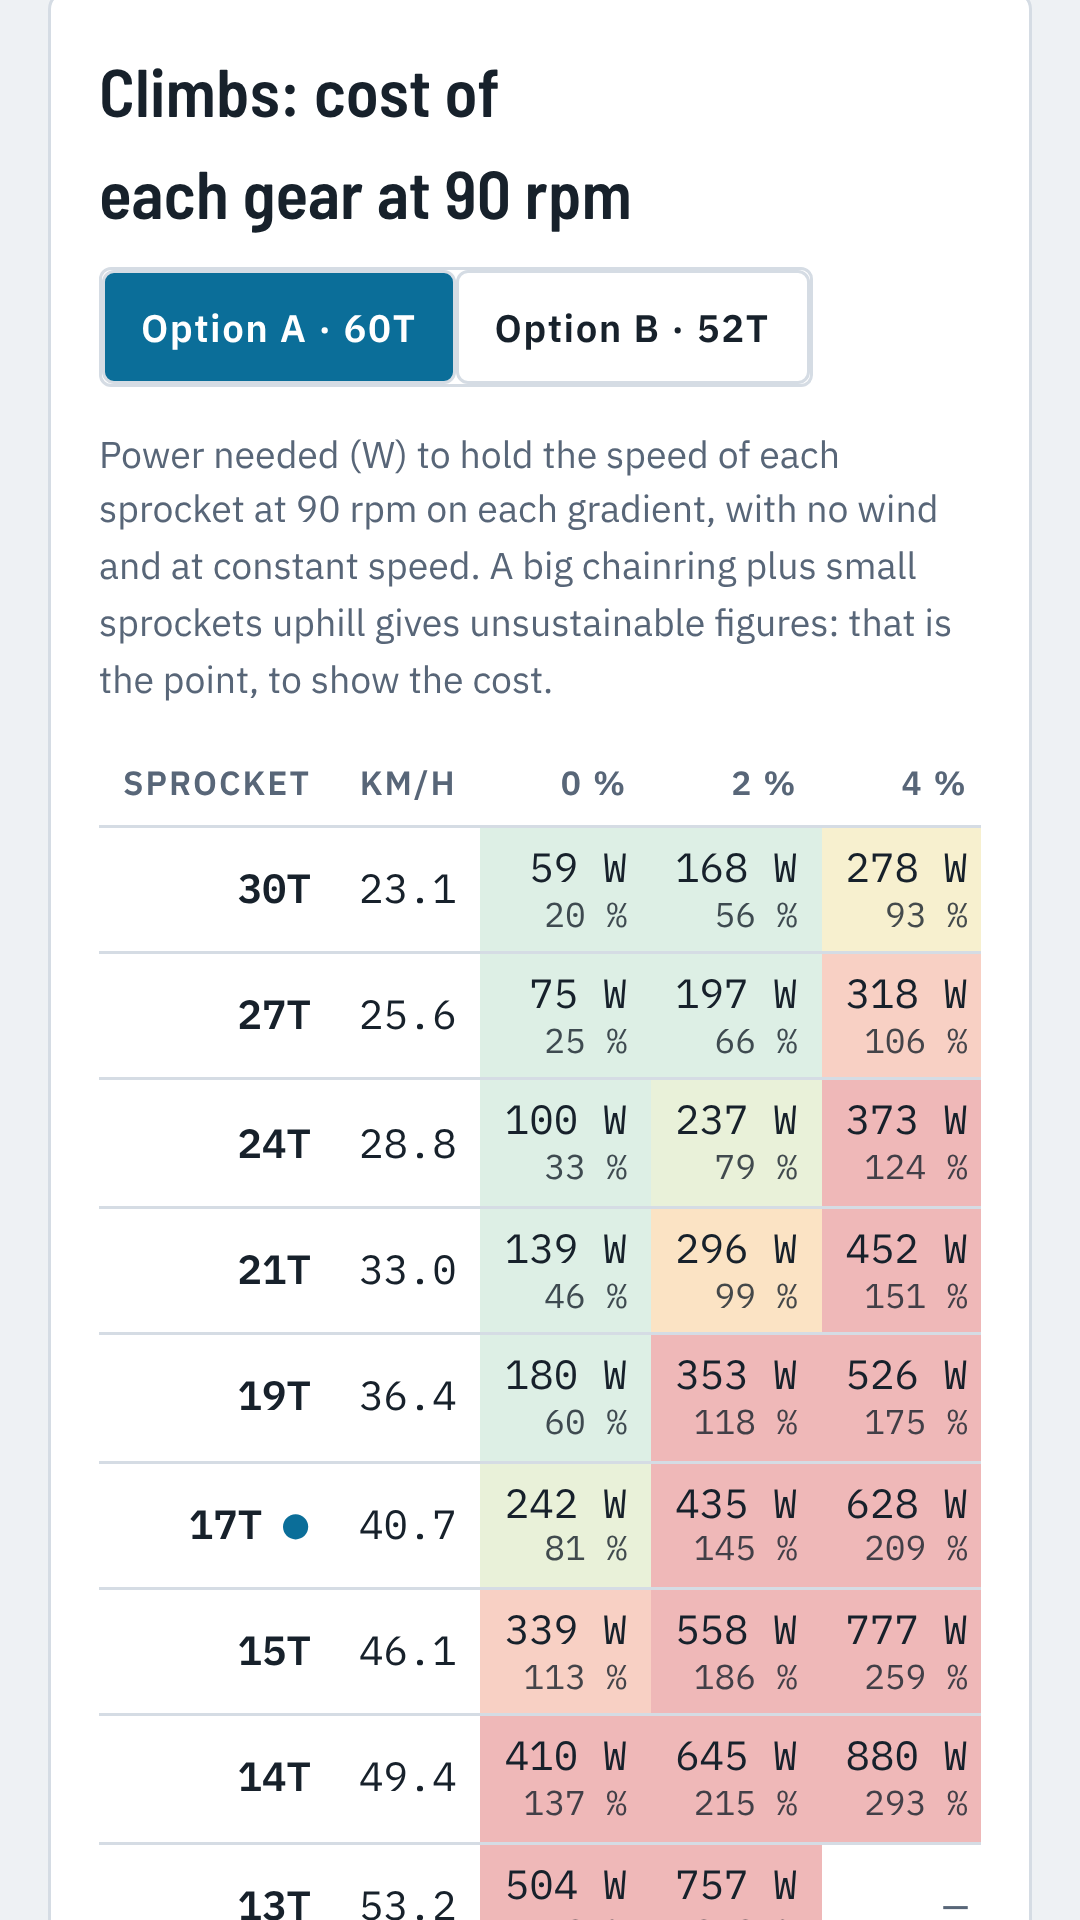
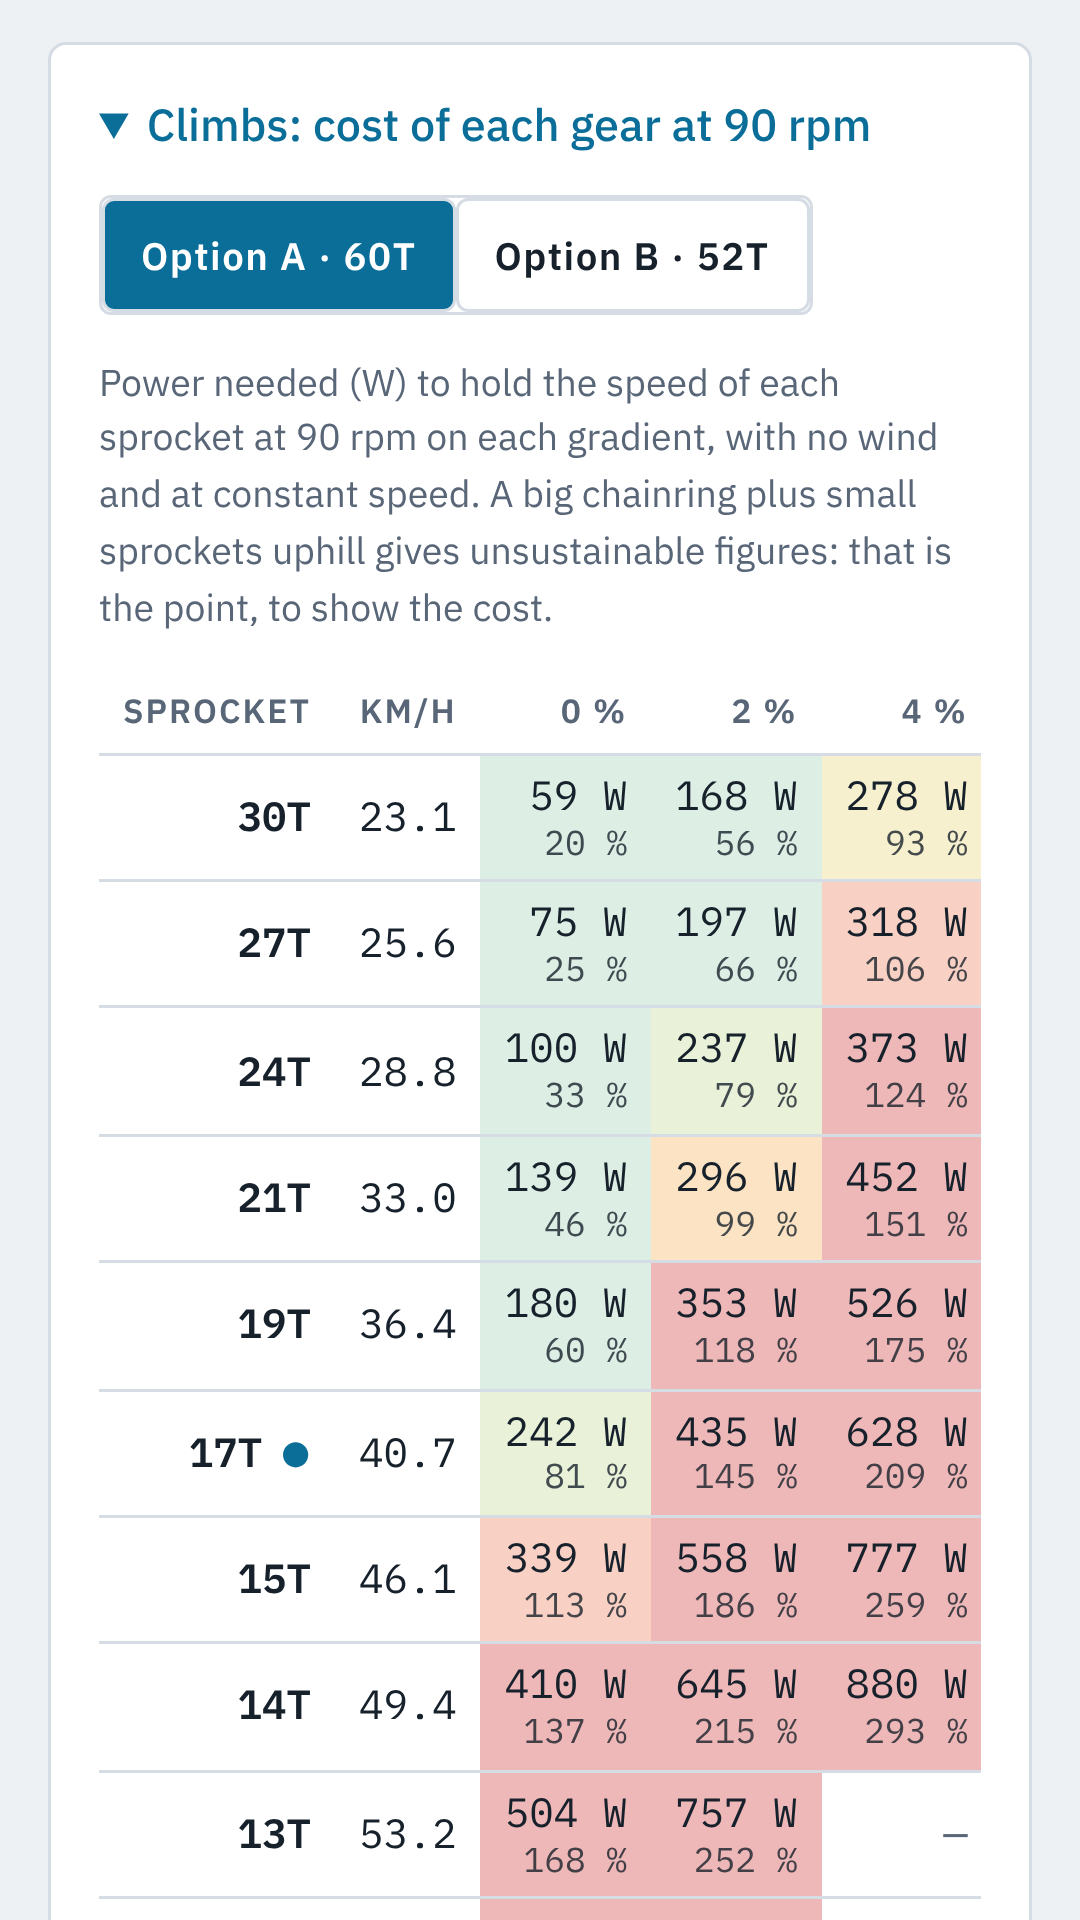
feat: la tabla de subidas pasa a ser un desplegable cerrado por defecto
Es información para usuarios avanzados: se evita abrumar a los básicos. Los desplegables
(subidas y matriz de velocidades) recuerdan si están abiertos al reconstruir la interfaz,
de modo que ya no se cierran al editar un campo o elegir la opción A/B.
Capturas de Play regenerados; README y CHANGELOG actualizados.

Claude-Session: https://claude.ai/code/session_01HU79VpV1XnotLDyT5Vd8zc

Changed region(s): [[0.0917, 0.0312, 0.9167, 1.0], [0.6722, 0.0625, 0.7028, 0.0938], [0.0306, 0.0, 0.0611, 0.0312]]

diff --git a/index.html b/index.html
@@ -139,7 +139,7 @@
   .climb td.hid { color: var(--muted); }
   .climb td.z0, .sw.z0 { background: var(--z0); } .climb td.z1, .sw.z1 { background: var(--z1); } .climb td.z2, .sw.z2 { background: var(--z2); }
   .climb td.z3, .sw.z3 { background: var(--z3); } .climb td.z4, .sw.z4 { background: var(--z4); } .climb td.z5, .sw.z5 { background: var(--z5); }
-  .climbhead { display: flex; justify-content: space-between; align-items: center; gap: 8px 16px; flex-wrap: wrap; margin-bottom: 8px; }
+  .climbhead { display: flex; align-items: center; gap: 8px 16px; flex-wrap: wrap; margin: 12px 0 8px; }
   .zlist { list-style: none; margin: 8px 0 0; padding: 0; display: flex; flex-direction: column; gap: 4px; font-size: .82rem; color: var(--muted); }
   .zlist li { display: flex; gap: 8px; align-items: baseline; }
   .zlist b { font-family: var(--f-mono); font-weight: 500; color: var(--ink); min-width: 6.5em; white-space: nowrap; }
@@ -567,6 +567,8 @@ function renderCard(p, ctx) {
 }
 
 var climbSel = "high";
+// Estado abierto/cerrado de los desplegables: la interfaz se reconstruye en cada cambio y, sin esto, se cerrarían al editar un campo o elegir una opción.
+var openState = { climb: false, matrix: false };
 function renderClimb(ctx) {
   var opts = ctx.fixed ? [{ label: "fixed", chain: ctx.fx.row.chain }] : ctx.res.props.map(function (p) { return { label: p.label, chain: p.row.chain }; });
   if (!opts.length || !ctx.modelOk) return "";
@@ -604,9 +606,10 @@ function renderClimb(ctx) {
   } else {
     zones = '<p class="hint">' + t("c_noftp") + "</p>";
   }
-  return '<section class="panel"><div class="climbhead"><h2>' + t("c_title", { cad: fmt(ctx.cad, 0) }) + "</h2>" + seg + "</div>" +
+  return '<details class="panel" data-key="climb"' + (openState.climb ? " open" : "") + "><summary>" + t("c_title", { cad: fmt(ctx.cad, 0) }) + "</summary>" +
+    '<div class="climbhead">' + seg + "</div>" +
     '<p class="hint">' + t("c_sub", { cad: fmt(ctx.cad, 0) }) + "</p>" +
-    '<div class="scroll"><table class="matrix climb"><thead>' + head + "</thead><tbody>" + body + "</tbody></table></div>" + legend + zones + "</section>";
+    '<div class="scroll"><table class="matrix climb"><thead>' + head + "</thead><tbody>" + body + "</tbody></table></div>" + legend + zones + "</details>";
 }
 
 function renderMatrix(ctx) {
@@ -625,7 +628,7 @@ function renderMatrix(ctx) {
     }
     body += "</tr>";
   });
-  return '<details class="panel"><summary>' + t("m_sum", { cad: fmt(ctx.cad, 0) }) + "</summary>" +
+  return '<details class="panel" data-key="matrix"' + (openState.matrix ? " open" : "") + "><summary>" + t("m_sum", { cad: fmt(ctx.cad, 0) }) + "</summary>" +
     '<div class="legend"><span><i class="sw b"></i>' + t("m_band") + '</span><span><i class="sw t"></i>' + t("m_near", { v: fmt(ctx.v, 1) }) + "</span></div>" +
     '<div class="scroll"><table class="matrix"><thead>' + head + "</thead><tbody>" + body + "</tbody></table></div></details>";
 }
@@ -709,6 +712,11 @@ function render() {
   // Un solo evento por control: si un campo también re-renderizara al perder el foco («change»), el clic en el selector de plato de la tabla de subidas se perdería (el botón se reemplaza entre pulsar y soltar).
   document.querySelectorAll("input, select").forEach(function (el) { el.addEventListener(el.tagName === "SELECT" ? "change" : "input", render); });
   document.querySelectorAll("[data-lang]").forEach(function (b) { b.addEventListener("click", function () { setLang(b.getAttribute("data-lang")); }); });
+  // «toggle» no burbujea: se escucha en captura para recordar qué desplegables están abiertos.
+  $("out").addEventListener("toggle", function (e) {
+    var k = e.target && e.target.getAttribute ? e.target.getAttribute("data-key") : null;
+    if (k && k in openState) openState[k] = e.target.open;
+  }, true);
   $("out").addEventListener("click", function (e) {
     var b = e.target.closest ? e.target.closest("[data-climb]") : null;
     if (!b) return;

diff --git a/README.md b/README.md
@@ -20,7 +20,7 @@ Calculadora para triatlón y contrarreloj. Dado el cassette, la potencia media y
 2. Indica potencia media, cadencia objetivo y CdA (0,23 m² por defecto). La velocidad objetivo se calcula con el modelo de abajo.
 3. Ajusta el rango de platos a simular, o fija un plato concreto.
 4. Lee las dos tarjetas (Opción A / Opción B) y la tabla de velocidades por marcha. Son **alternativas para un mismo plato** (no una pareja de platos de un 2x) y la explicación sobre ellas dice cuándo elegir cada una.
-5. **Subidas.** La tabla «Subidas» da la potencia que cuesta mantener, a tu cadencia objetivo, la velocidad de cada piñón en pendientes del 0 al 15 % (elige Opción A u Opción B). Si indicas tu **FTP**, cada celda muestra también el % de FTP y se colorea según el esfuerzo típico de ese rango (leyenda bajo la tabla). Las celdas de más de 1000 W se ocultan.
+5. **Subidas.** El desplegable «Subidas» (cerrado por defecto, pensado para usuarios avanzados) da la potencia que cuesta mantener, a tu cadencia objetivo, la velocidad de cada piñón en pendientes del 0 al 15 % (elige Opción A u Opción B). Si indicas tu **FTP**, cada celda muestra también el % de FTP y se colorea según el esfuerzo típico de ese rango (leyenda bajo la tabla). Las celdas de más de 1000 W se ocultan.
 
 La versión instalada se ve bajo el título: `v1.0.0 · build abc1234 · 2026-10-23` (`desarrollo` si se abre `index.html` sin compilar).
 

diff --git a/CHANGELOG.md b/CHANGELOG.md
@@ -9,7 +9,7 @@ Formato basado en [Keep a Changelog](https://keepachangelog.com/es-ES/1.1.0/) y 
 - Capturas y gráfico de funciones de la ficha de Google Play regenerados con la nueva interfaz; se añade una captura de la tabla de subidas.
 
 ### Añadido
-- Tabla «Subidas»: potencia necesaria (W) para mantener la velocidad de cada piñón a la cadencia objetivo en pendientes del 0 al 15 %, para la opción A o B (o el plato fijo). Nueva entrada opcional **FTP**: la tabla añade el % de FTP y colorea cada celda por rango de esfuerzo, con leyenda. Las celdas de más de 1000 W se ocultan.
+- Desplegable «Subidas» (cerrado por defecto): potencia necesaria (W) para mantener la velocidad de cada piñón a la cadencia objetivo en pendientes del 0 al 15 %, para la opción A o B (o el plato fijo). Nueva entrada opcional **FTP**: la tabla añade el % de FTP y colorea cada celda por rango de esfuerzo, con leyenda. Las celdas de más de 1000 W se ocultan.
 - `privacidad.html`: política de privacidad pública en español e inglés, publicada con la PWA (exigida por Google Play).
 - `docs/play-store/`: textos de la ficha (ES/EN), guía de declaraciones y prueba cerrada de Google Play, y gráficos (icono, gráfico de funciones y capturas).
 
